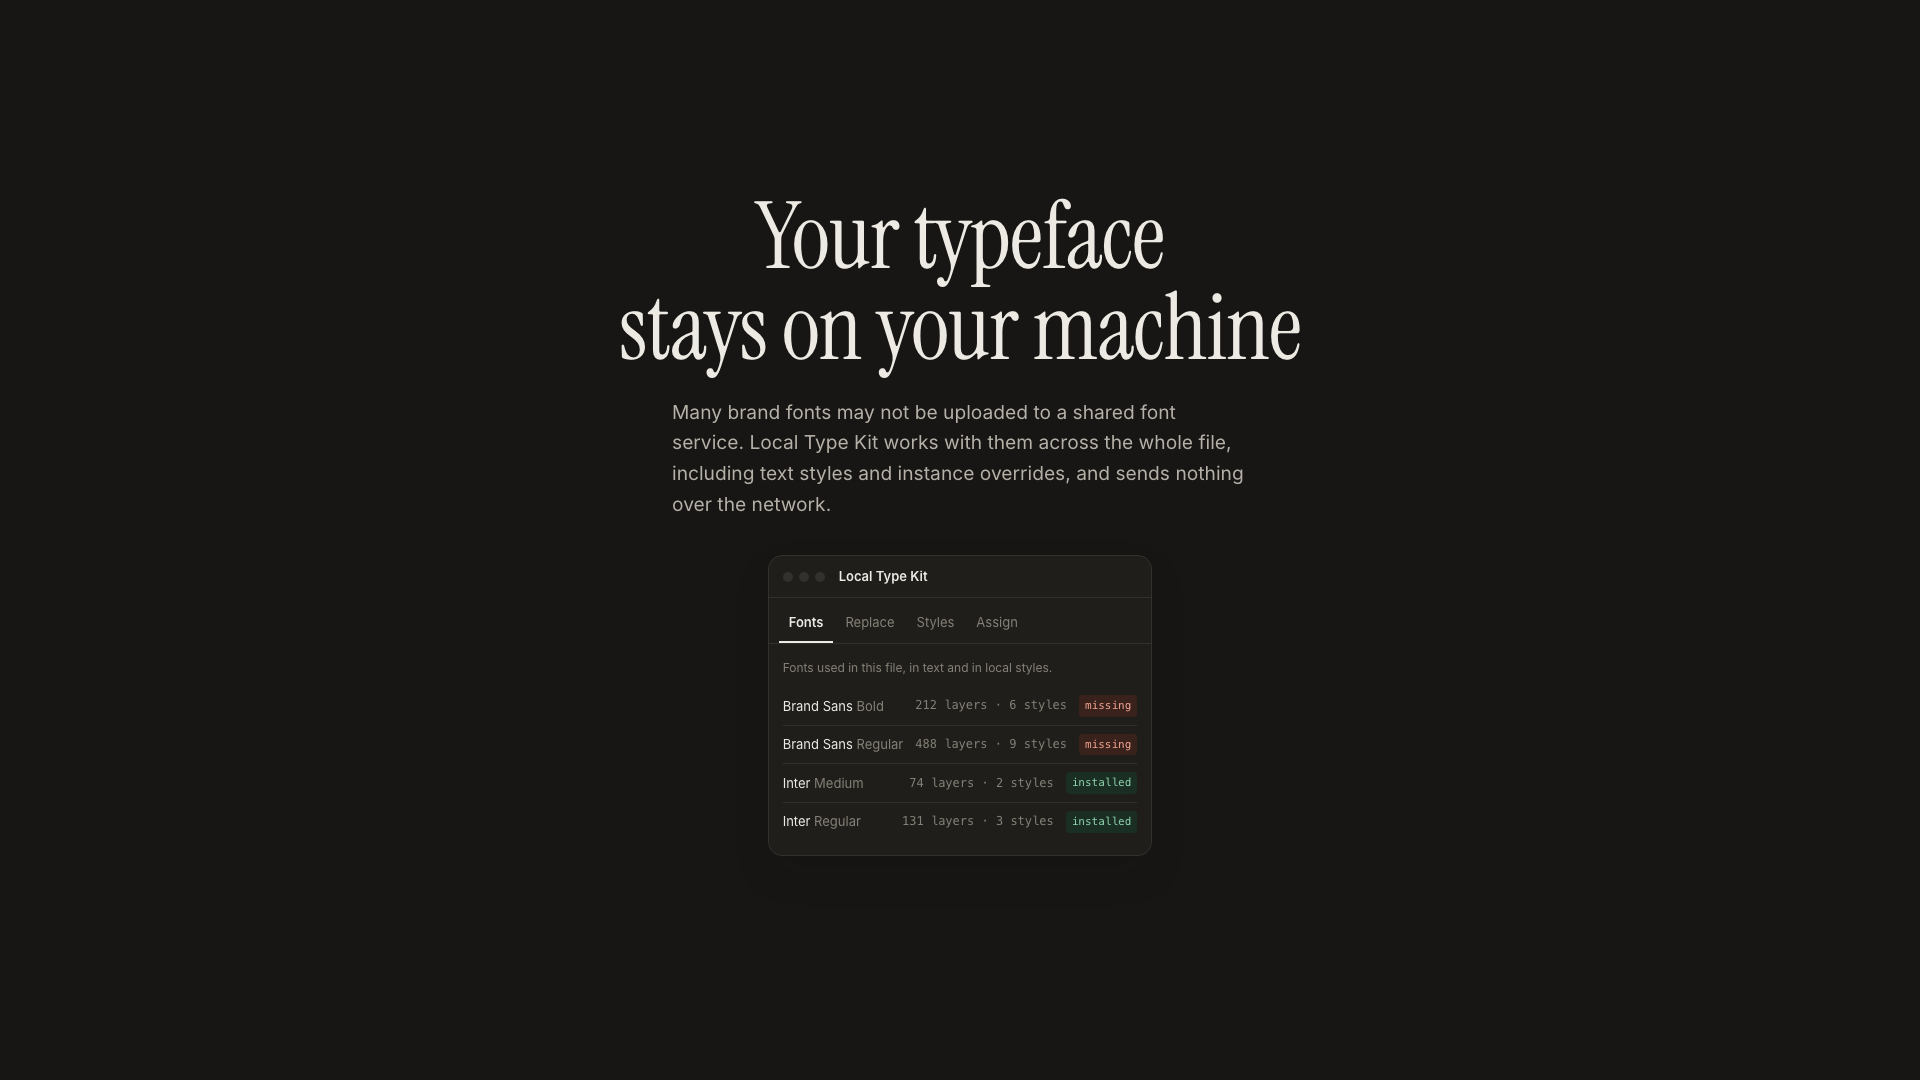
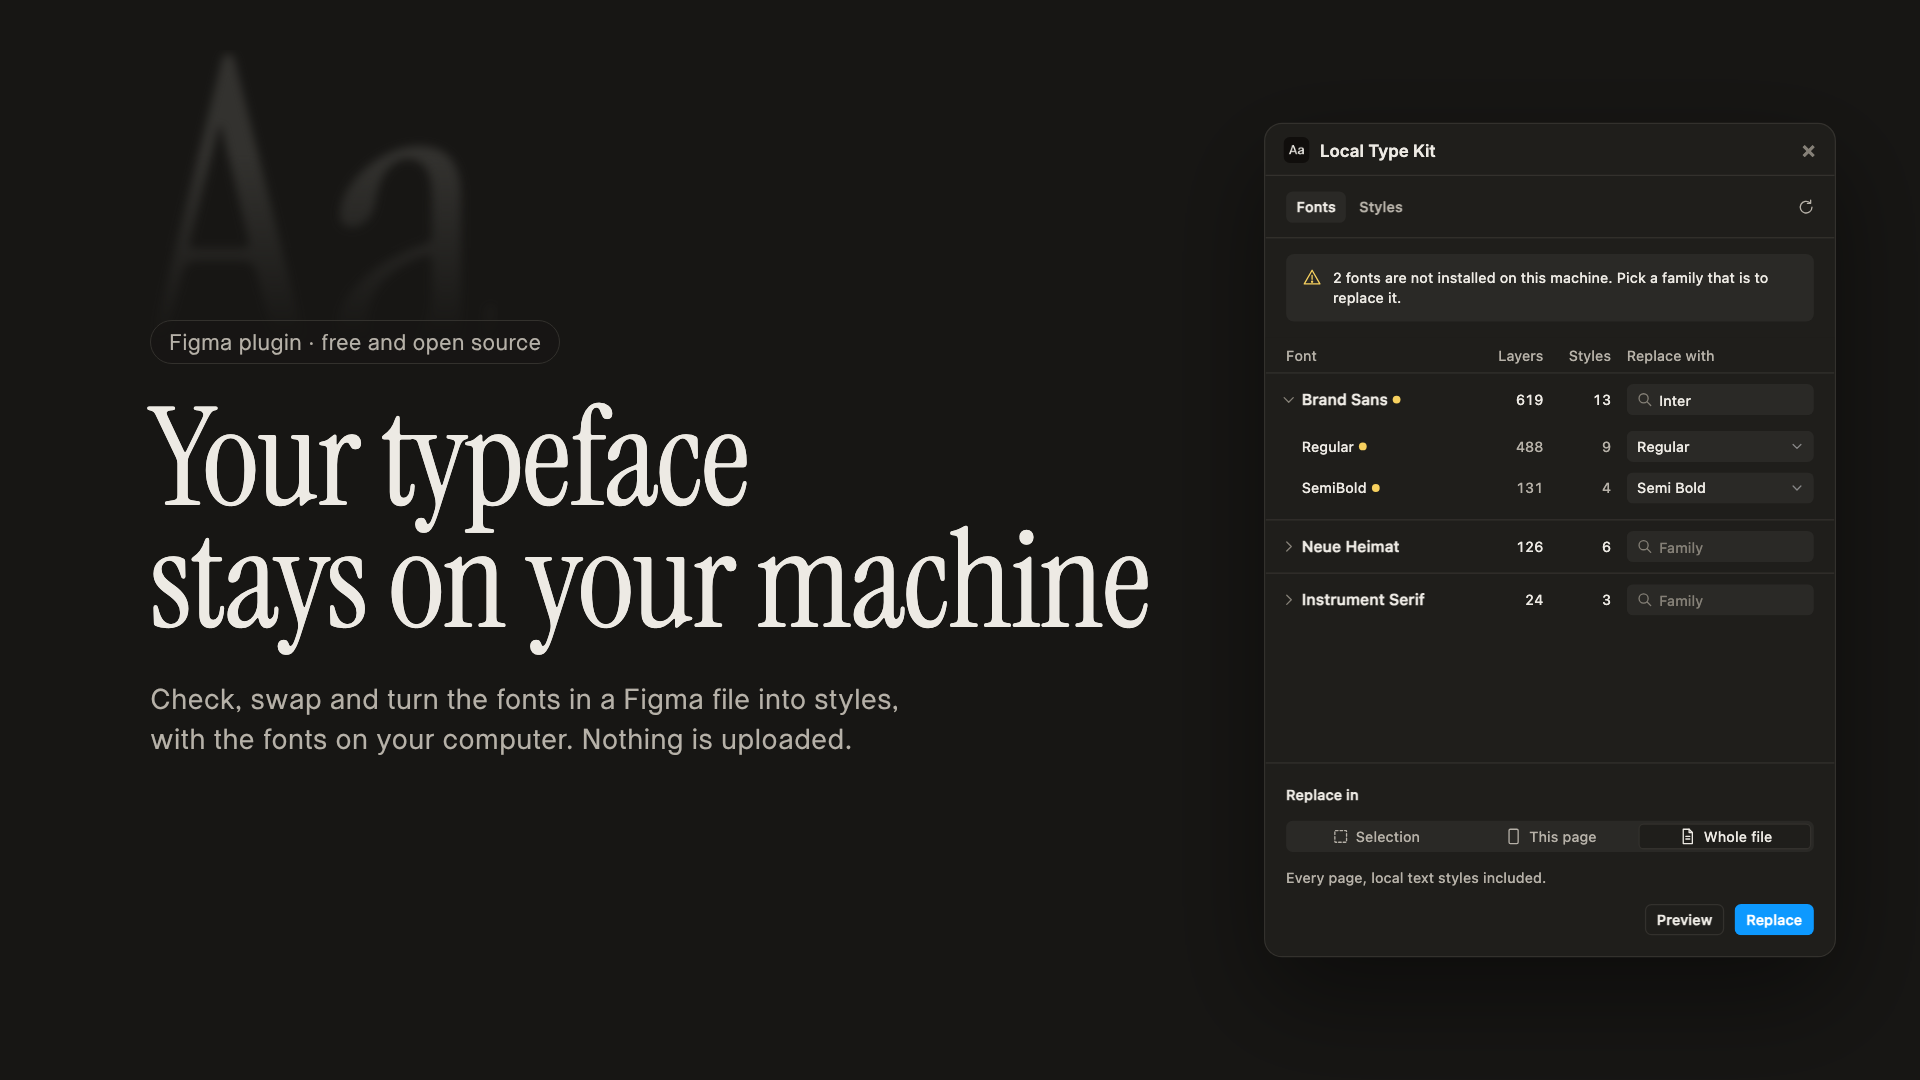
Titelbilder für die Figma Community mit Claim und echtem Plugin-Fenster

diff --git a/site/cover/index.html b/site/cover/index.html
@@ -1,0 +1,54 @@
+<!doctype html>
+<html lang="en" data-theme="dark">
+<head>
+<meta charset="utf-8">
+<meta name="robots" content="noindex, nofollow">
+<title>Local Type Kit – Cover</title>
+<!-- Titelbild fuer die Figma-Community-Seite: python3 build.py, dann mit Headless Chrome in 1920x960 und 1920x1080 aufnehmen. -->
+<style>
+@font-face { font-family: "Instrument Serif"; src: url("../assets/fonts/InstrumentSerif-Regular.ttf") format("truetype"); }
+@font-face { font-family: "Neue Heimat"; src: url("../assets/fonts/NeueHeimat.woff2") format("woff2"); font-weight: 300 700; }
+@font-face { font-family: "Inter"; src: url("../assets/fonts/inter-regular.ttf") format("truetype"); font-weight: 400; }
+@font-face { font-family: "Inter"; src: url("../assets/fonts/inter-medium.ttf") format("truetype"); font-weight: 500; }
+@font-face { font-family: "Inter"; src: url("../assets/fonts/inter-semibold.ttf") format("truetype"); font-weight: 600; }
+:root { --bg: #171614; --fg: #EDEAE4; --fg-2: #B6B1A8; --fg-3: #858077; --border: #33312D; --win: #1F1E1B; }
+* { box-sizing: border-box; }
+html, body { margin: 0; height: 100%; background: var(--bg); color: var(--fg); overflow: hidden; }
+body { display: grid; grid-template-columns: 1fr 440px; align-items: center; gap: 120px; padding: 0 150px; font-family: "Neue Heimat", Inter, sans-serif; }
+.text { position: relative; }
+.aa { position: absolute; left: -20px; top: -270px; font: 400 430px/.8 "Instrument Serif", serif; color: color-mix(in srgb, var(--fg) 13%, var(--bg)); filter: blur(5px);
+  -webkit-mask-image: linear-gradient(to bottom, #000 30%, transparent 85%); mask-image: linear-gradient(to bottom, #000 30%, transparent 85%); z-index: 0; }
+.eyebrow { position: relative; display: inline-flex; align-items: center; gap: 10px; padding: 8px 18px; border: 1px solid var(--border); border-radius: 999px; font-size: 22px; color: var(--fg-2); margin-bottom: 34px; background: color-mix(in srgb, var(--bg) 60%, transparent); }
+h1 { position: relative; margin: 0; font: 400 136px/.9 "Instrument Serif", serif; letter-spacing: -.01em; }
+p { position: relative; margin: 36px 0 0; font-size: 28px; line-height: 1.45; color: var(--fg-2); max-width: 760px; }
+.win { position: relative; width: 440px; border: 1px solid var(--border); border-radius: 14px; overflow: hidden; background: var(--win); box-shadow: 0 30px 80px rgba(0,0,0,.45); transform: scale(1.3); transform-origin: center; }
+.bar { display: flex; align-items: center; gap: 8px; height: 40px; padding: 0 14px; border-bottom: 1px solid var(--border); font: 600 13px Inter, sans-serif; }
+.bar img { width: 20px; height: 20px; border-radius: 5px; }
+.bar .x { margin-left: auto; color: var(--fg-3); font-size: 18px; }
+#plugin { display: block; width: 100%; height: 560px; border: 0; }
+</style>
+</head>
+<body>
+<div class="text">
+  <div class="aa" aria-hidden="true">Aa</div>
+  <div class="eyebrow">Figma plugin · free and open source</div>
+  <h1>Your typeface<br>stays on your machine</h1>
+  <p>Check, swap and turn the fonts in a Figma file into styles, with the fonts on your computer. Nothing is uploaded.</p>
+</div>
+<div class="win">
+  <div class="bar"><img src="../assets/icon-128.png" alt=""><span>Local Type Kit</span><span class="x">×</span></div>
+  <iframe id="plugin" data-src="../plugin/ui.html?lang=en"></iframe>
+</div>
+<script src="../plugin/demo.js"></script>
+<script>
+// Fuer das Bild: Brand Sans aufklappen und Inter als Ersatz eintragen, damit die Tabelle zeigt, was das Plugin tut.
+document.getElementById("plugin").addEventListener("load", function () {
+  var f = this;
+  setTimeout(function () {
+    var d = f.contentDocument, fam = d.querySelector(".fam"), i = fam && fam.querySelector("input");
+    if (i) { i.value = "Inter"; i.dispatchEvent(new Event("change")); }
+  }, 900);
+});
+</script>
+</body>
+</html>
